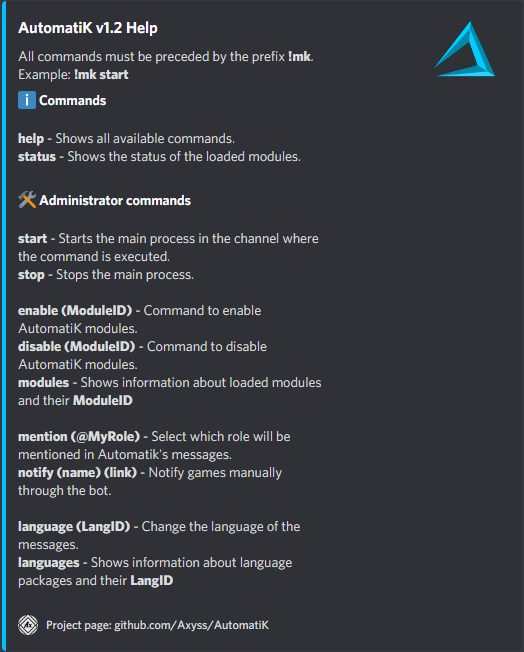
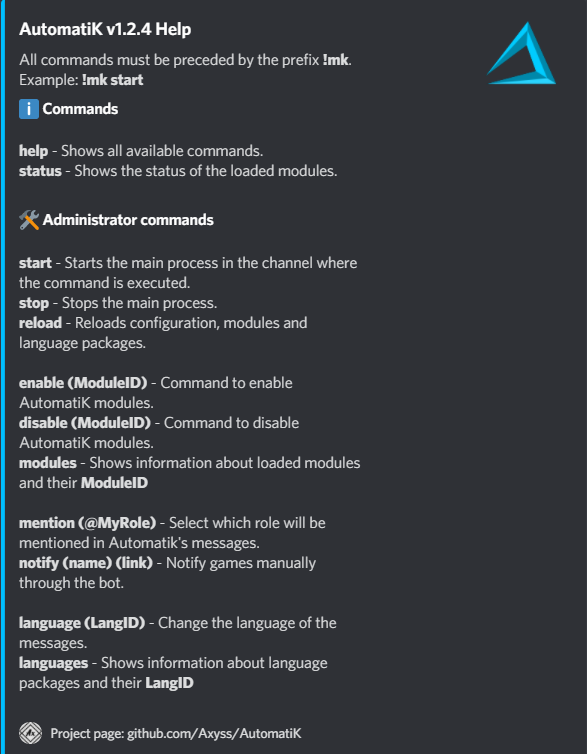
added reload command

Changed region(s): [[0.0, 0.0, 0.6107, 1.0], [0.8244, 0.0307, 0.9466, 0.1227]]

diff --git a/AutomatiK files/bot.py b/AutomatiK files/bot.py
@@ -109,12 +109,7 @@ class Client(commands.Bot, LangManager, ConfigManager):
 
     async def on_ready(self):
         if not self.is_started:  # Prevents the next lines from executing more than once when reconnecting
-            self.MODULES = Loader.load_modules()
-            self.load_config()
-            self.create_config_keys(self.MODULES)
-            self.check_config_changes()
-
-            self.load_lang(self.data_config["lang"])
+            self.load_resources()
 
             updater = updates.Updates(local_version=Client.VERSION, link="https://github.com/Axyss/AutomatiK/releases/")
             threading.Thread(target=updater.start_checking, daemon=True).start()  # Update checker
@@ -128,10 +123,7 @@ class Client(commands.Bot, LangManager, ConfigManager):
 
     @staticmethod
     def clear_console():
-        if os.name == "nt":  # Windows
-            os.system("cls")
-        else:  # Linux/OS X
-            os.system("clear")
+        os.system("cls") if os.name == "nt" else os.system("clear")
 
     def cli(self):
         """Manages the console commands"""
@@ -141,10 +133,19 @@ class Client(commands.Bot, LangManager, ConfigManager):
             if cli_command == "shutdown":
                 self.main_loop = False
                 logger.info("Stopping...")
-                time.sleep(1)
                 os._exit(1)
             else:
                 logger.error("Unknown terminal command. Use 'shutdown' to stop the bot.")
+
+    def load_resources(self):
+        """Loads configuration, modules and language packages"""
+
+        self.MODULES = Loader.load_modules()
+        self.load_config()
+        self.create_config_keys(self.MODULES)
+        self.check_config_changes()
+        self.load_lang(self.data_config["lang"])
+        return True
 
     def get_status(self, service):
         """Translates boolean values to the strings showed in !mk status"""
@@ -392,6 +393,22 @@ class Client(commands.Bot, LangManager, ConfigManager):
             embed_langs.add_field(name=self.lang["modules_author"], value="\n".join(lang_author))
 
             await ctx.channel.send(embed=embed_langs)
+
+        @self.command()
+        @commands.guild_only()
+        @commands.cooldown(2, 10, commands.BucketType.user)
+        @commands.has_permissions(administrator=True)
+        async def reload(ctx):
+            """Reloads configuration, modules and language packages"""
+
+            logger.info("Reloading...")
+            was_started = bool(self.is_started)
+            self.is_started = False
+            self.load_resources()
+            self.is_started = was_started
+
+            await ctx.channel.send(self.lang["reload_completed"])
+            logger.info("Reload completed")
 
 
 if __name__ == "__main__":
